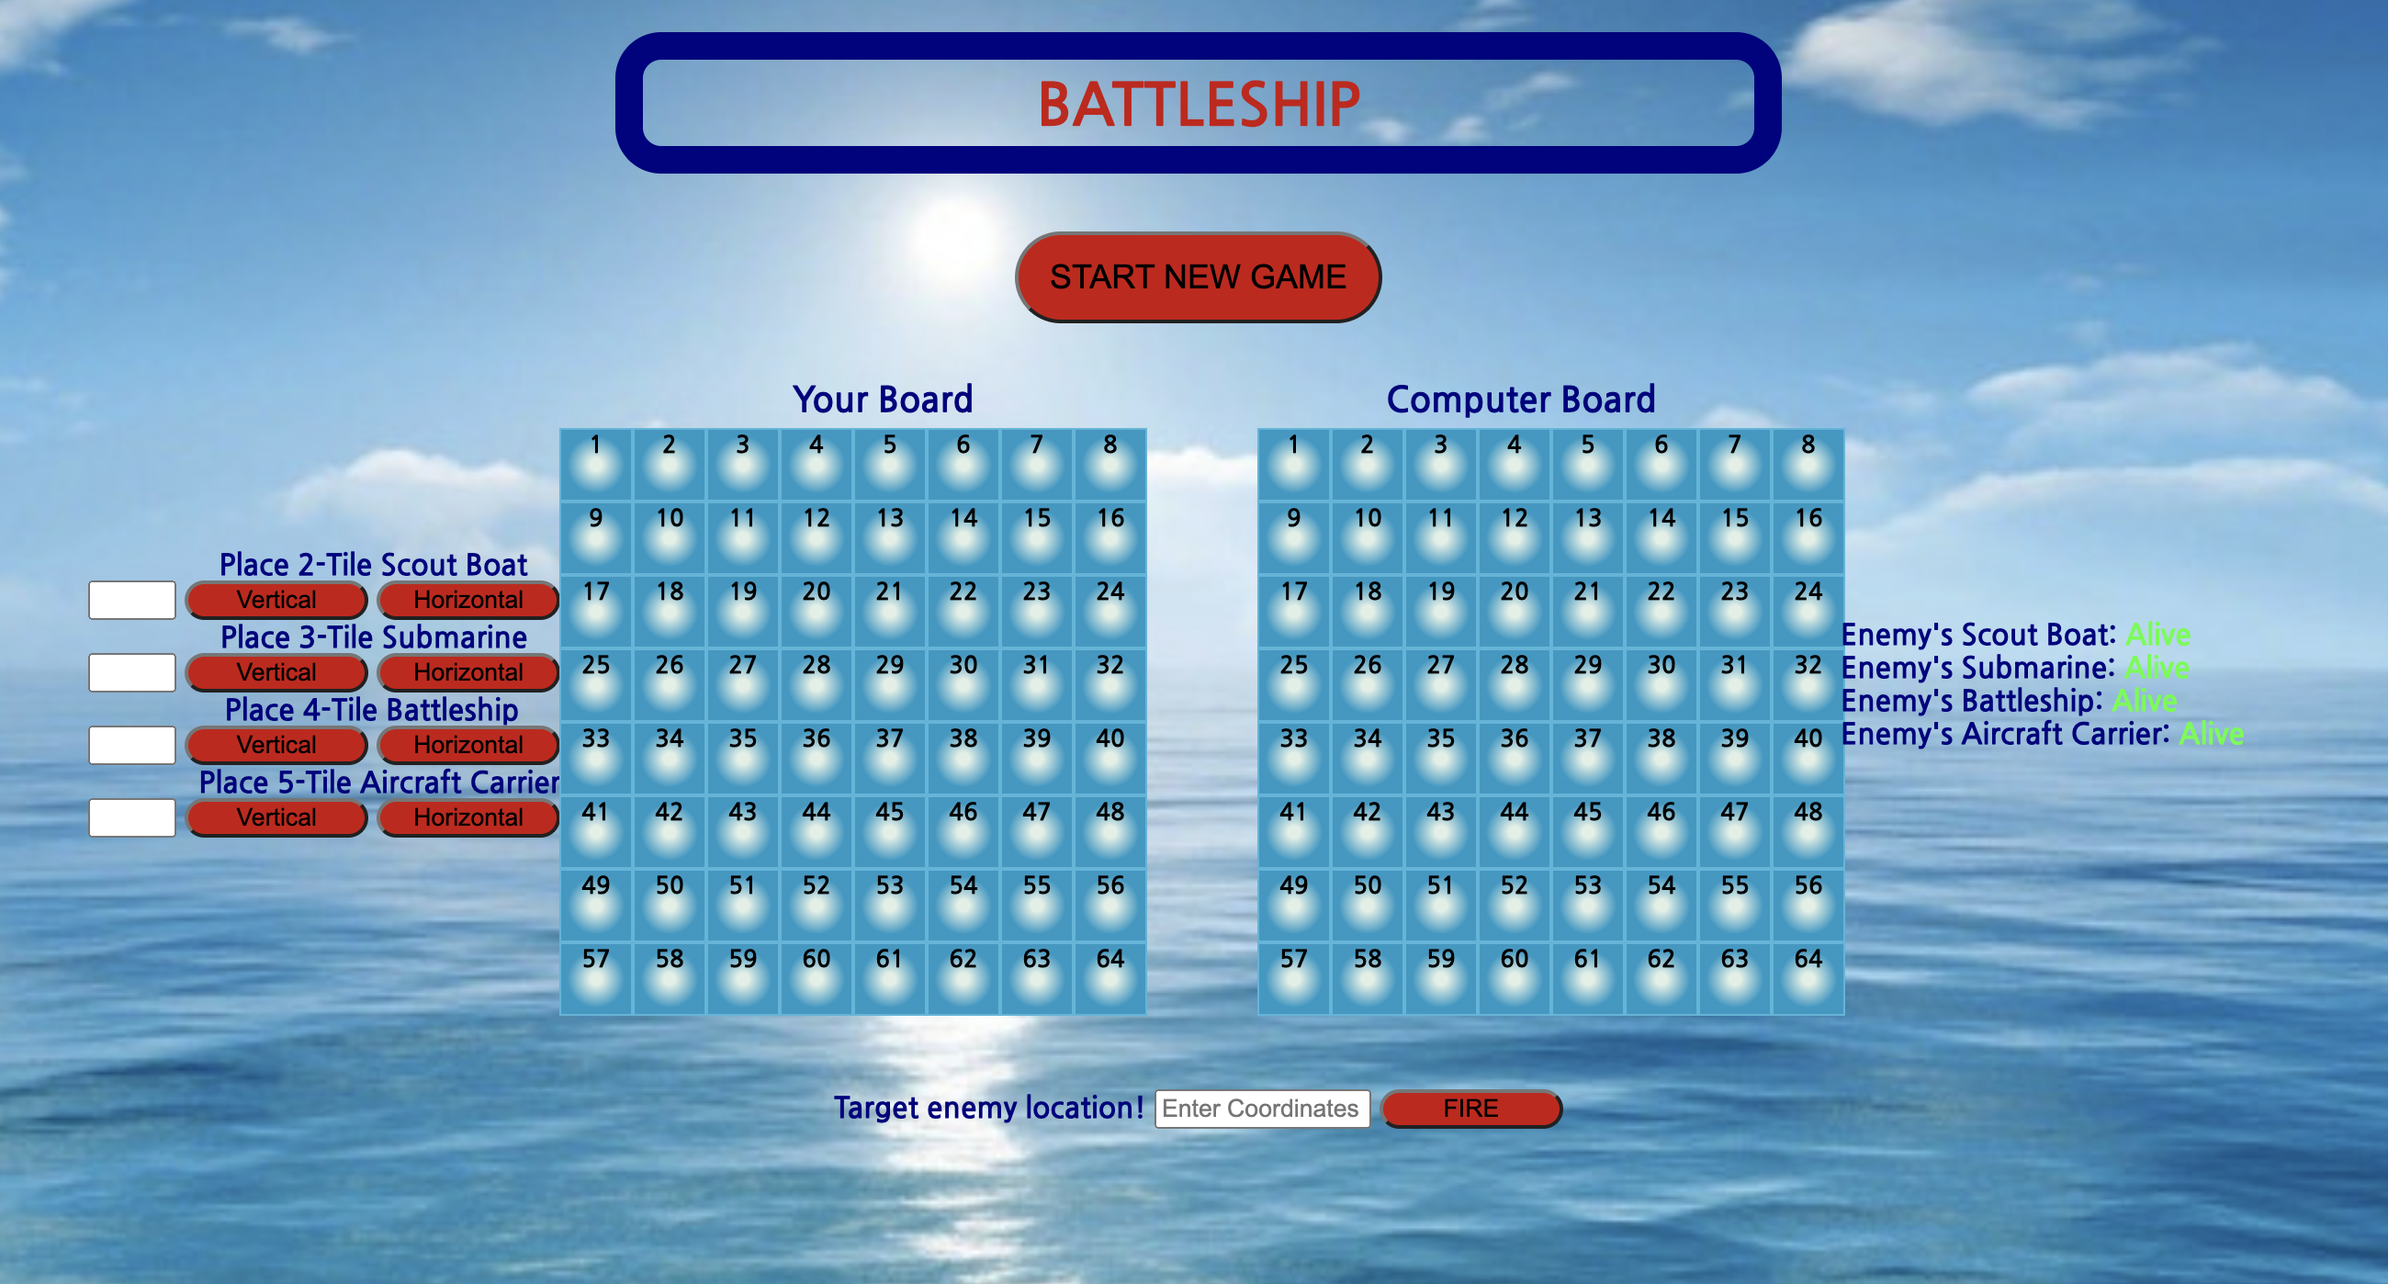
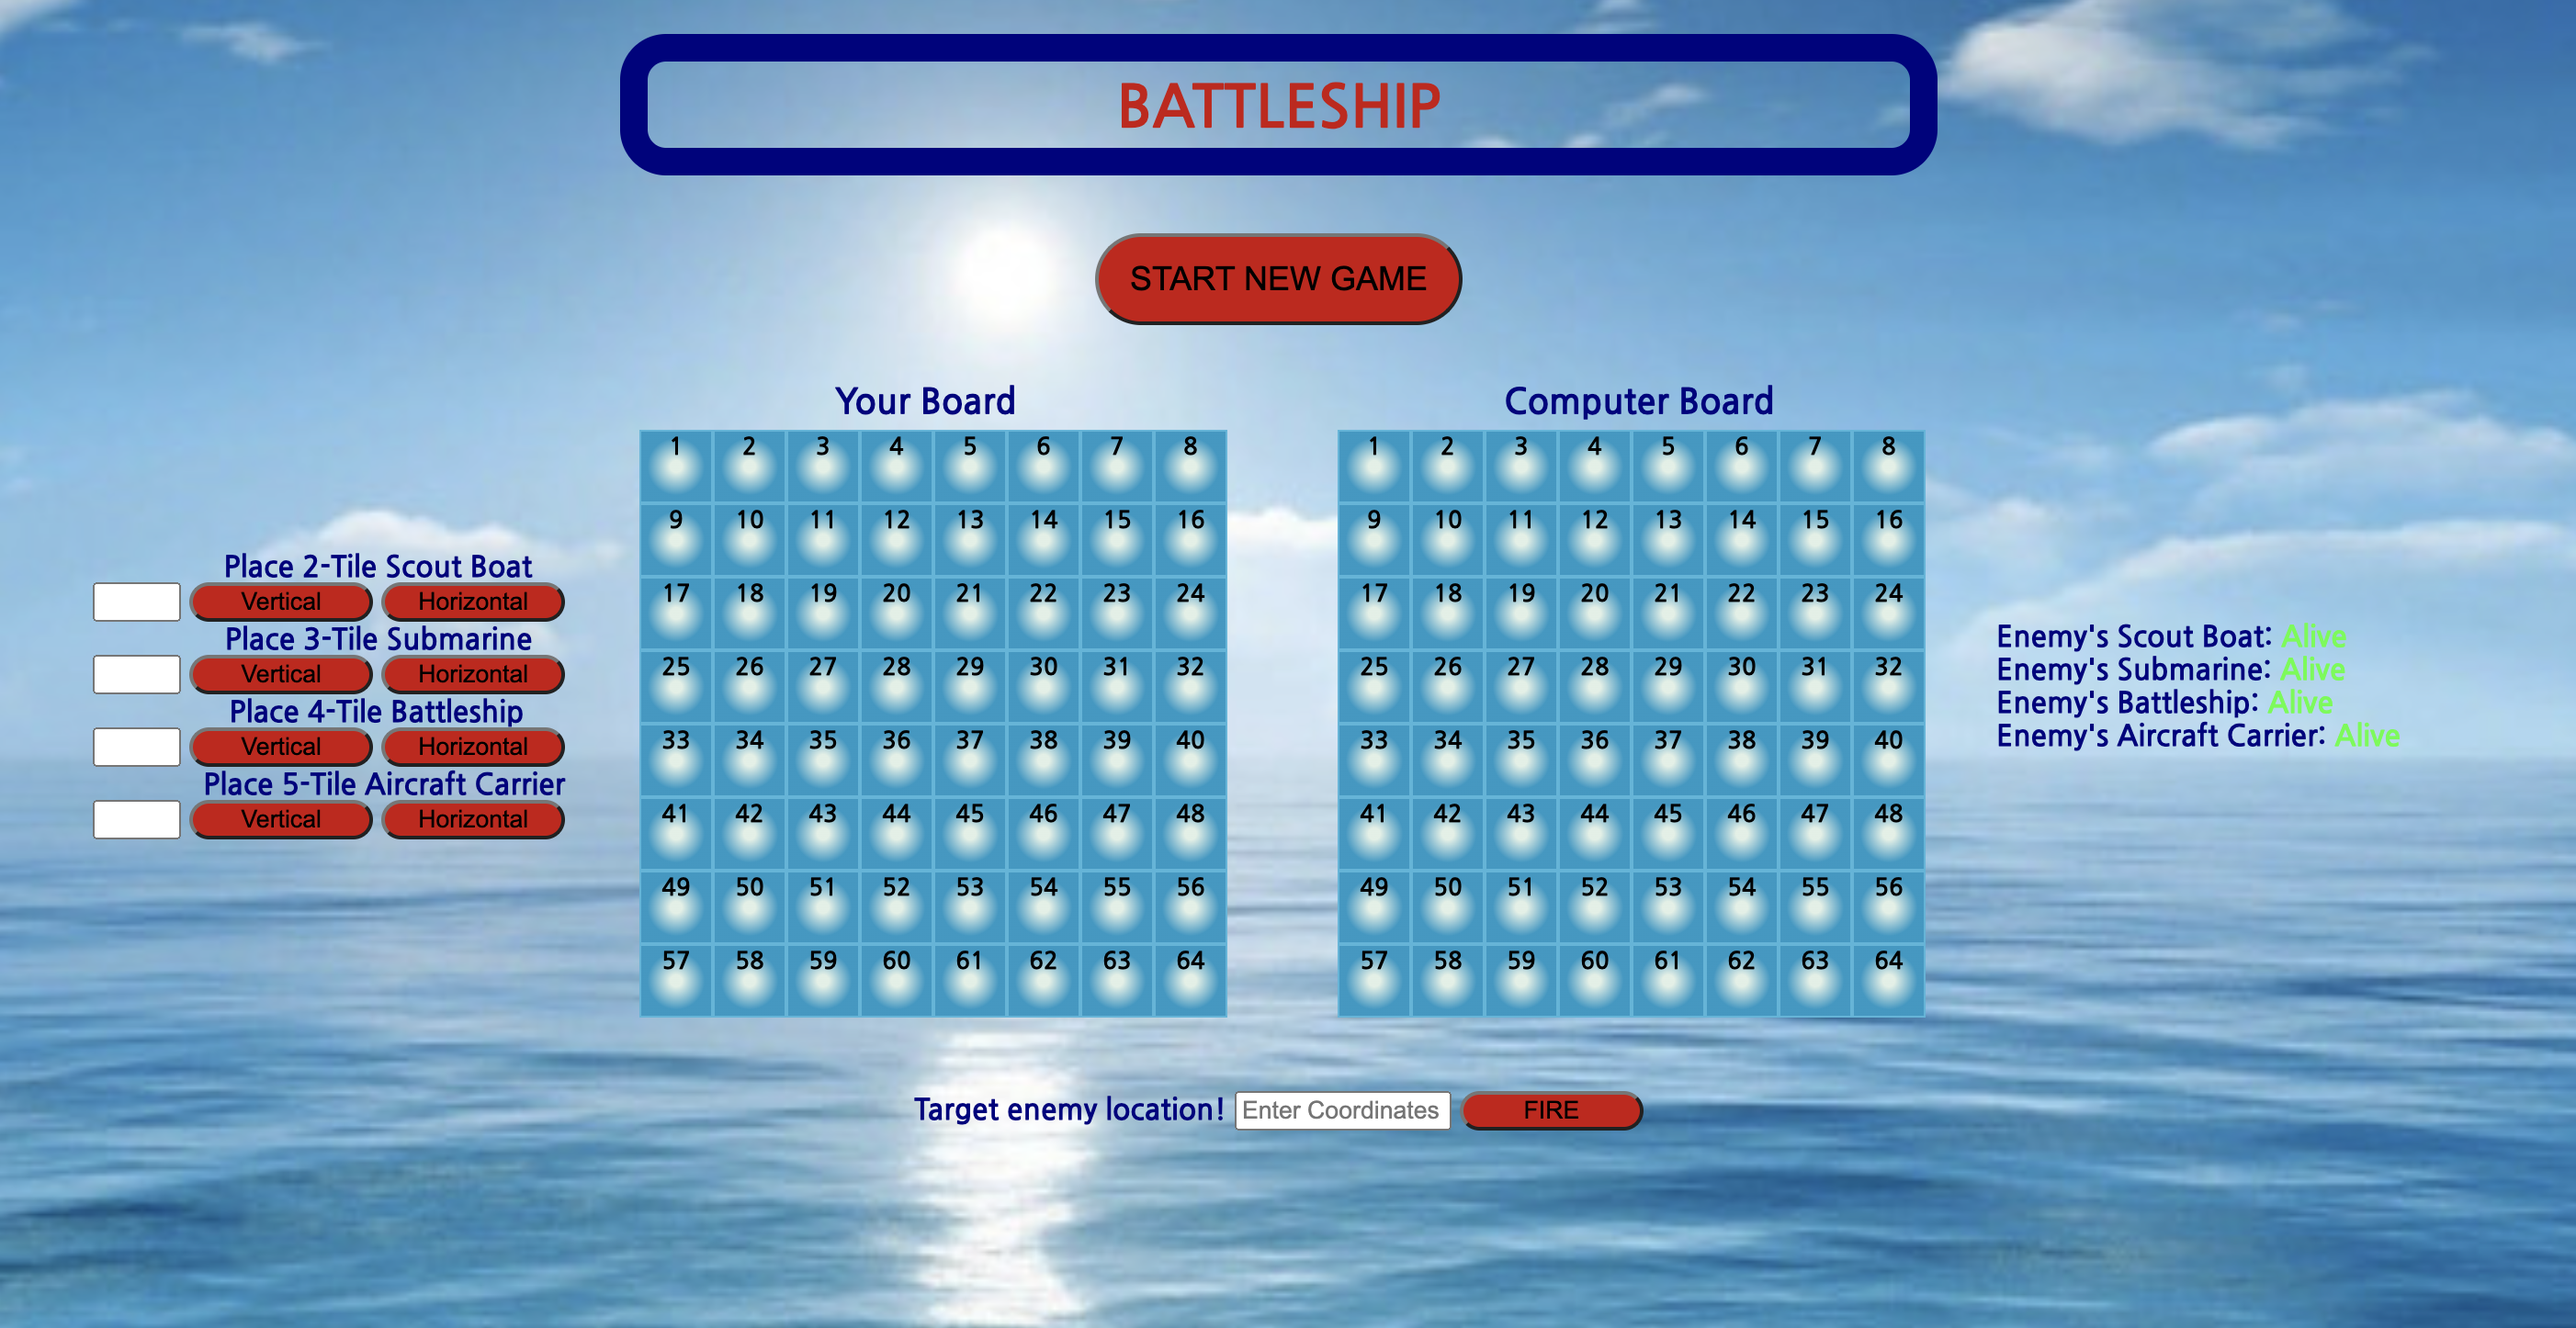
updated readme

diff --git a/style.css b/style.css
@@ -171,7 +171,7 @@ form {
 
 
 
-@media screen and (max-width: 1000px) {
+@media screen and (max-width: 1300px) {
   #playerboard, #compboard, .playerboats, .computerboats {
     width: 100%; /* The width is 100%, when the viewport is 800px or smaller */
     text-align: center;

diff --git a/READEME.md b/READEME.md
@@ -1,4 +1,4 @@
-## Battleship
+# Battleship
 
 **Live Link:** [play here](https://coriocharles.github.io/BattleShip-Test/)
 ## Objective
@@ -7,7 +7,7 @@ Battleship is a turn-based strategy game which consists of two teams placing pie
 --------------
 
 
-##### screenshots;
+#### Screenshot:
 ![Main Playing Screen](screenshot.png)
 
 --------------
